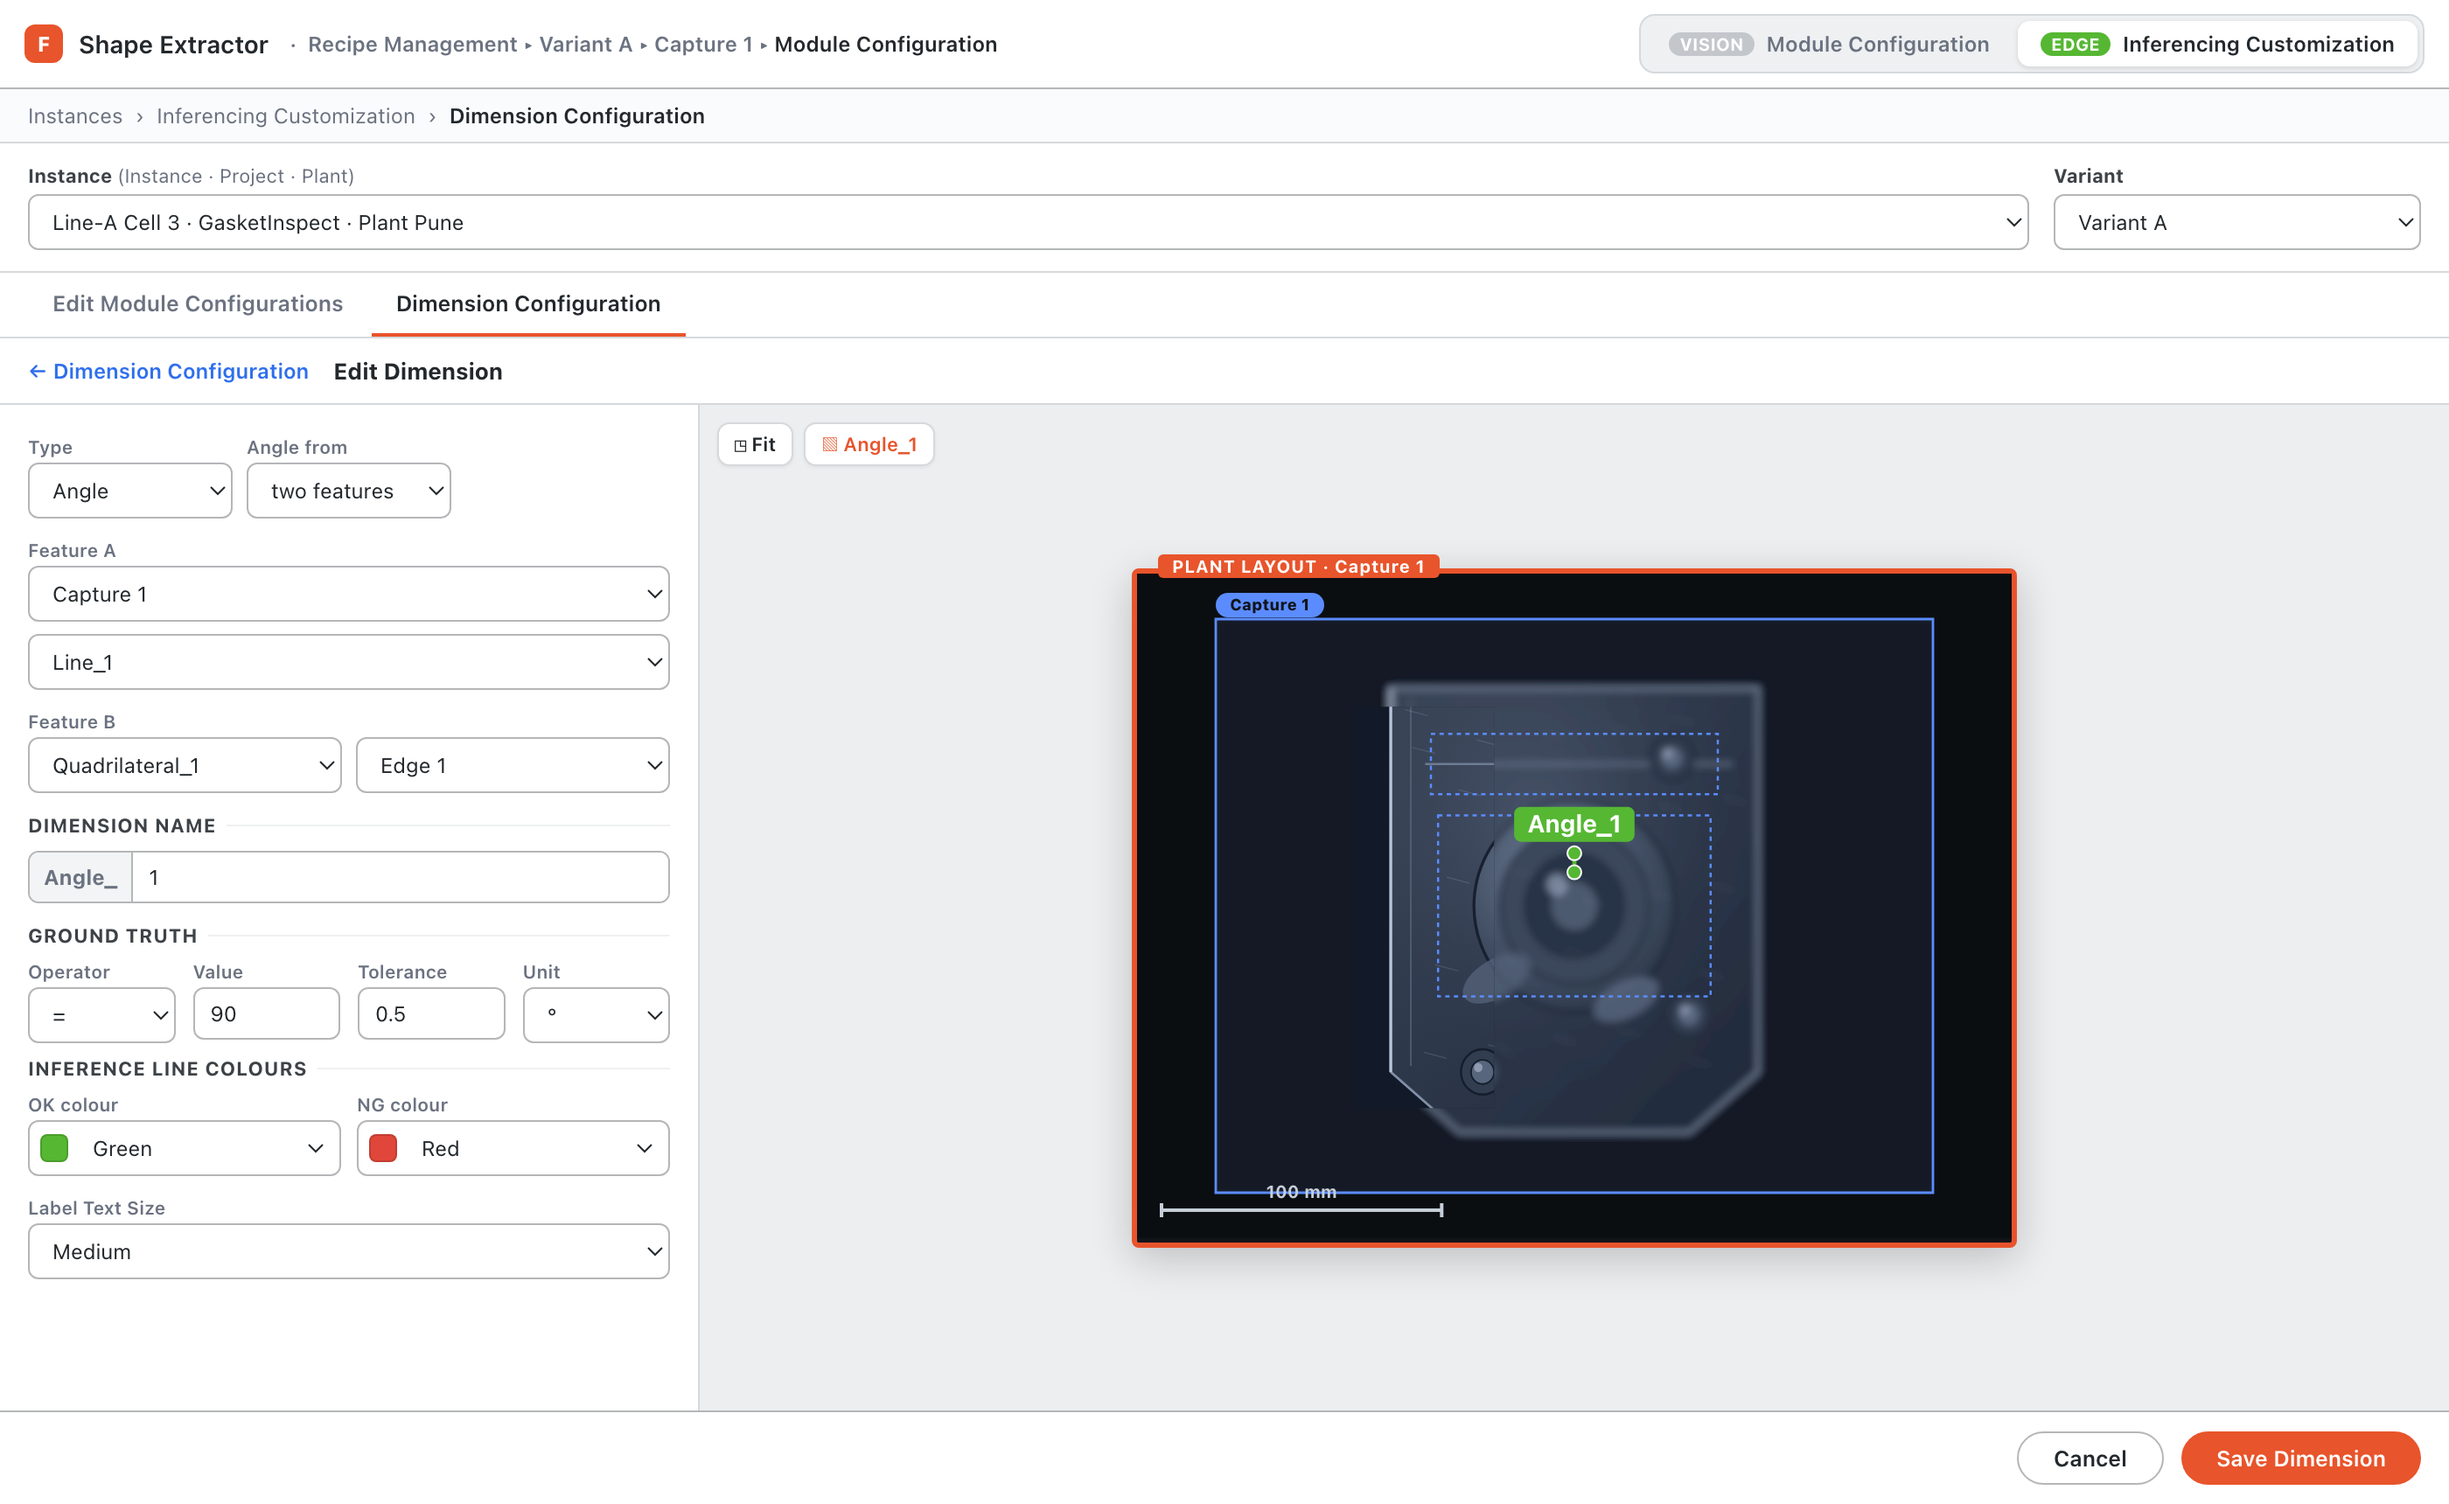
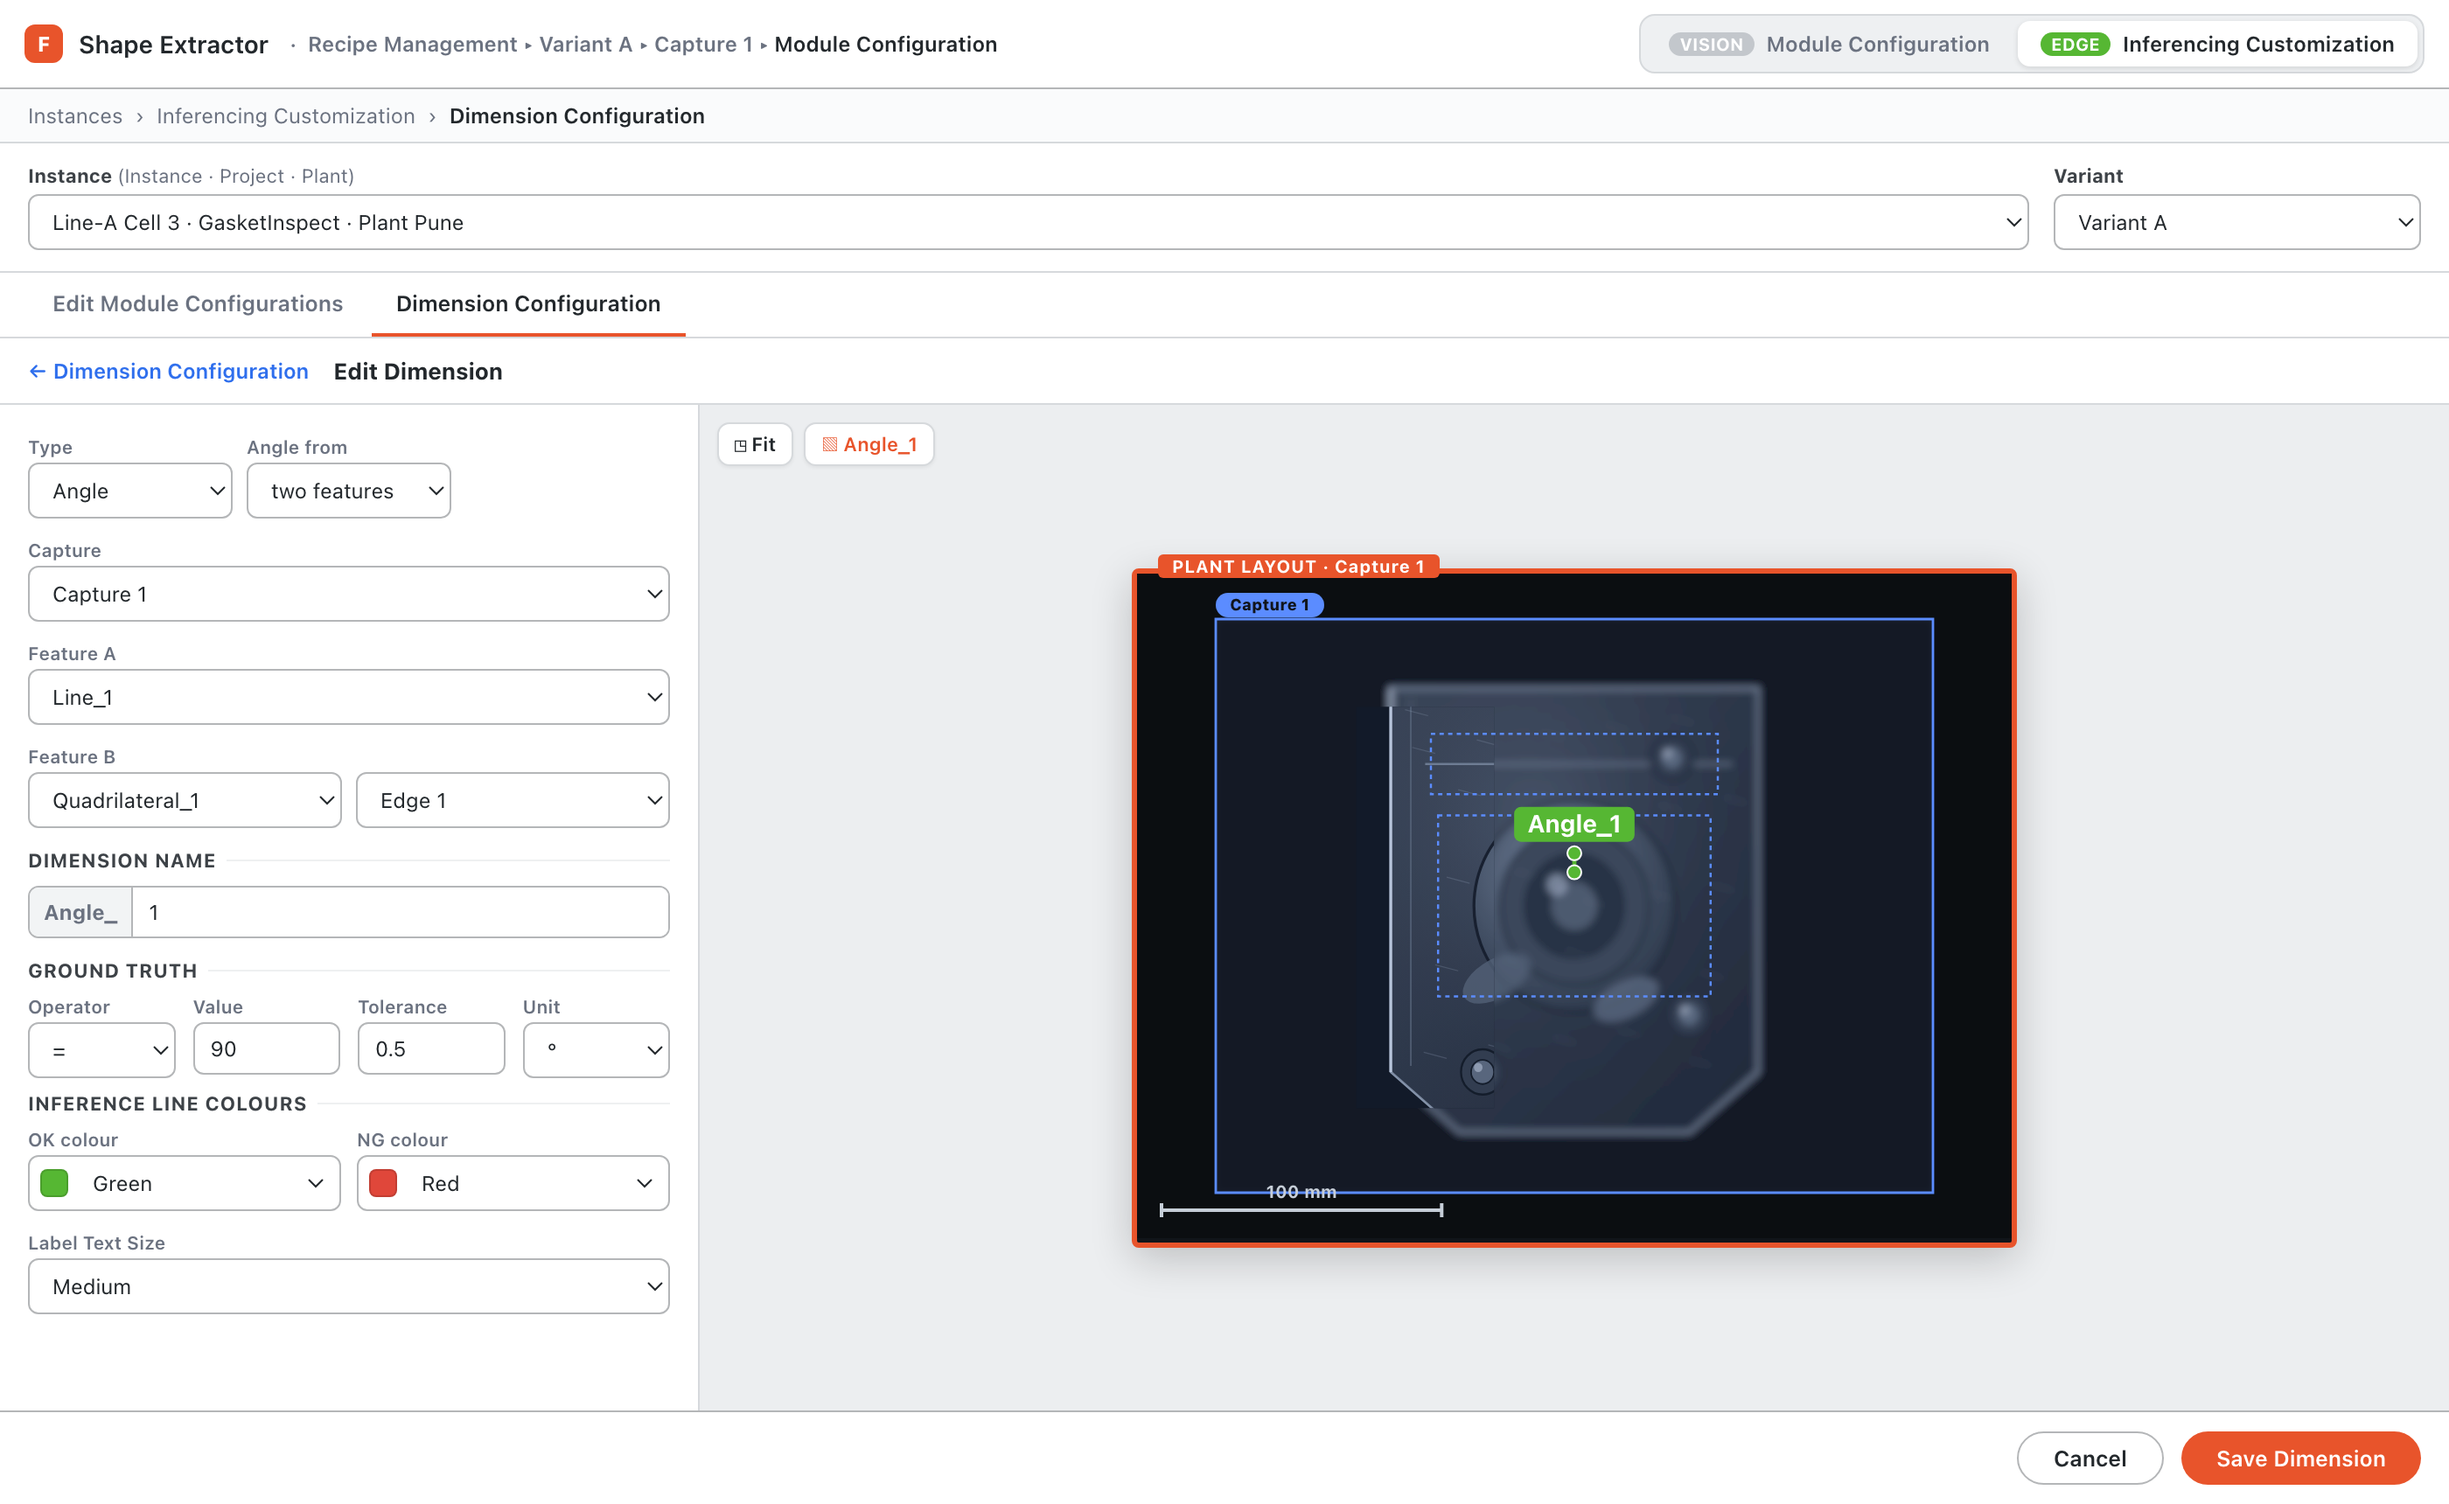
Single-capture dimensions pick the capture once, above the features, not inside Feature A

diff --git a/index.html b/index.html
@@ -2005,9 +2005,18 @@ function FeatureCascade({ node, patch, shapes, typeOpts, onType }) {
         {cfg.linePick && <div><span className="tinylab">Angle from</span>
           <select className="sel" value={angleMode} onChange={(e) => patch({ angleMode: e.target.value })}>{ANGLE_MODE_OPTS.map((o) => <option key={o}>{o}</option>)}</select></div>}
       </div>
+      {/* A dimension confined to one capture picks it ONCE, for the whole dimension — it belongs to
+          neither feature. Distance is the exception: each feature names its own, which is what lets
+          the two differ. Either way the flow reads capture → shape → point. */}
+      {!cfg.cross && (
+        <div className="field">
+          <span className="tinylab">Capture</span>
+          {captureSelect(capA, capOptsA, changeCaptureA)}
+        </div>
+      )}
       <div className="field">
         <span className="tinylab">{twoFeatures ? 'Feature A' : 'Feature'}</span>
-        {captureSelect(capA, capOptsA, changeCaptureA)}
+        {cfg.cross && captureSelect(capA, capOptsA, changeCaptureA)}
         <div className="feat">
           {shapeSelect(node.shapeOneId, capA, (e) => changeShape('one', e.target.value))}
           {showSubA && <select className="sel" value={node.shapeOneSelector} onChange={(e) => patch({ shapeOneSelector: e.target.value })}>{subOptsFor(node.shapeOneId).map((f) => <option key={f}>{f}</option>)}</select>}
